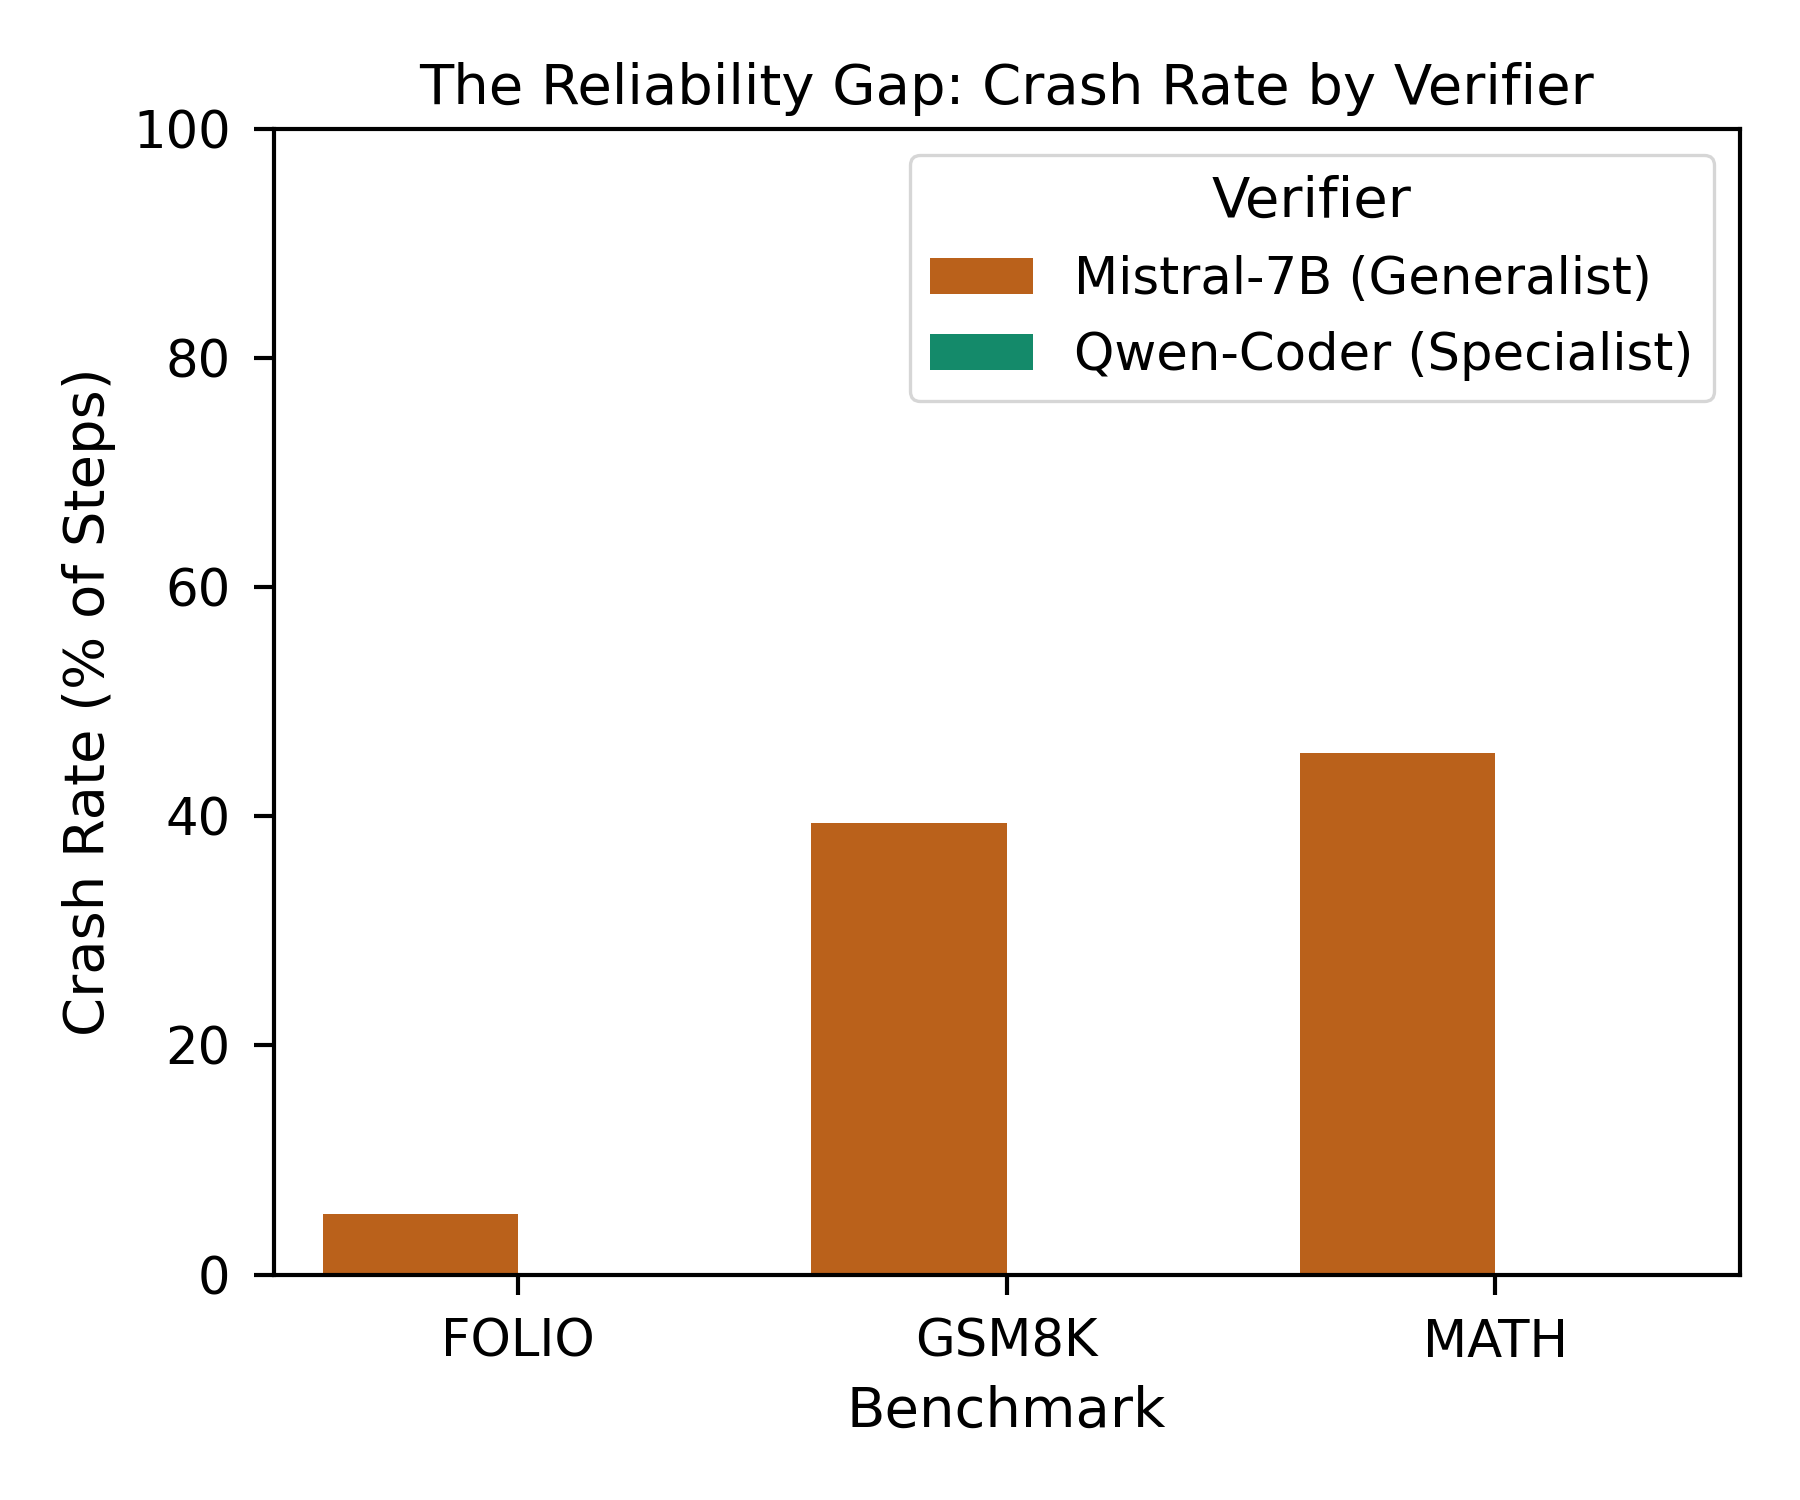
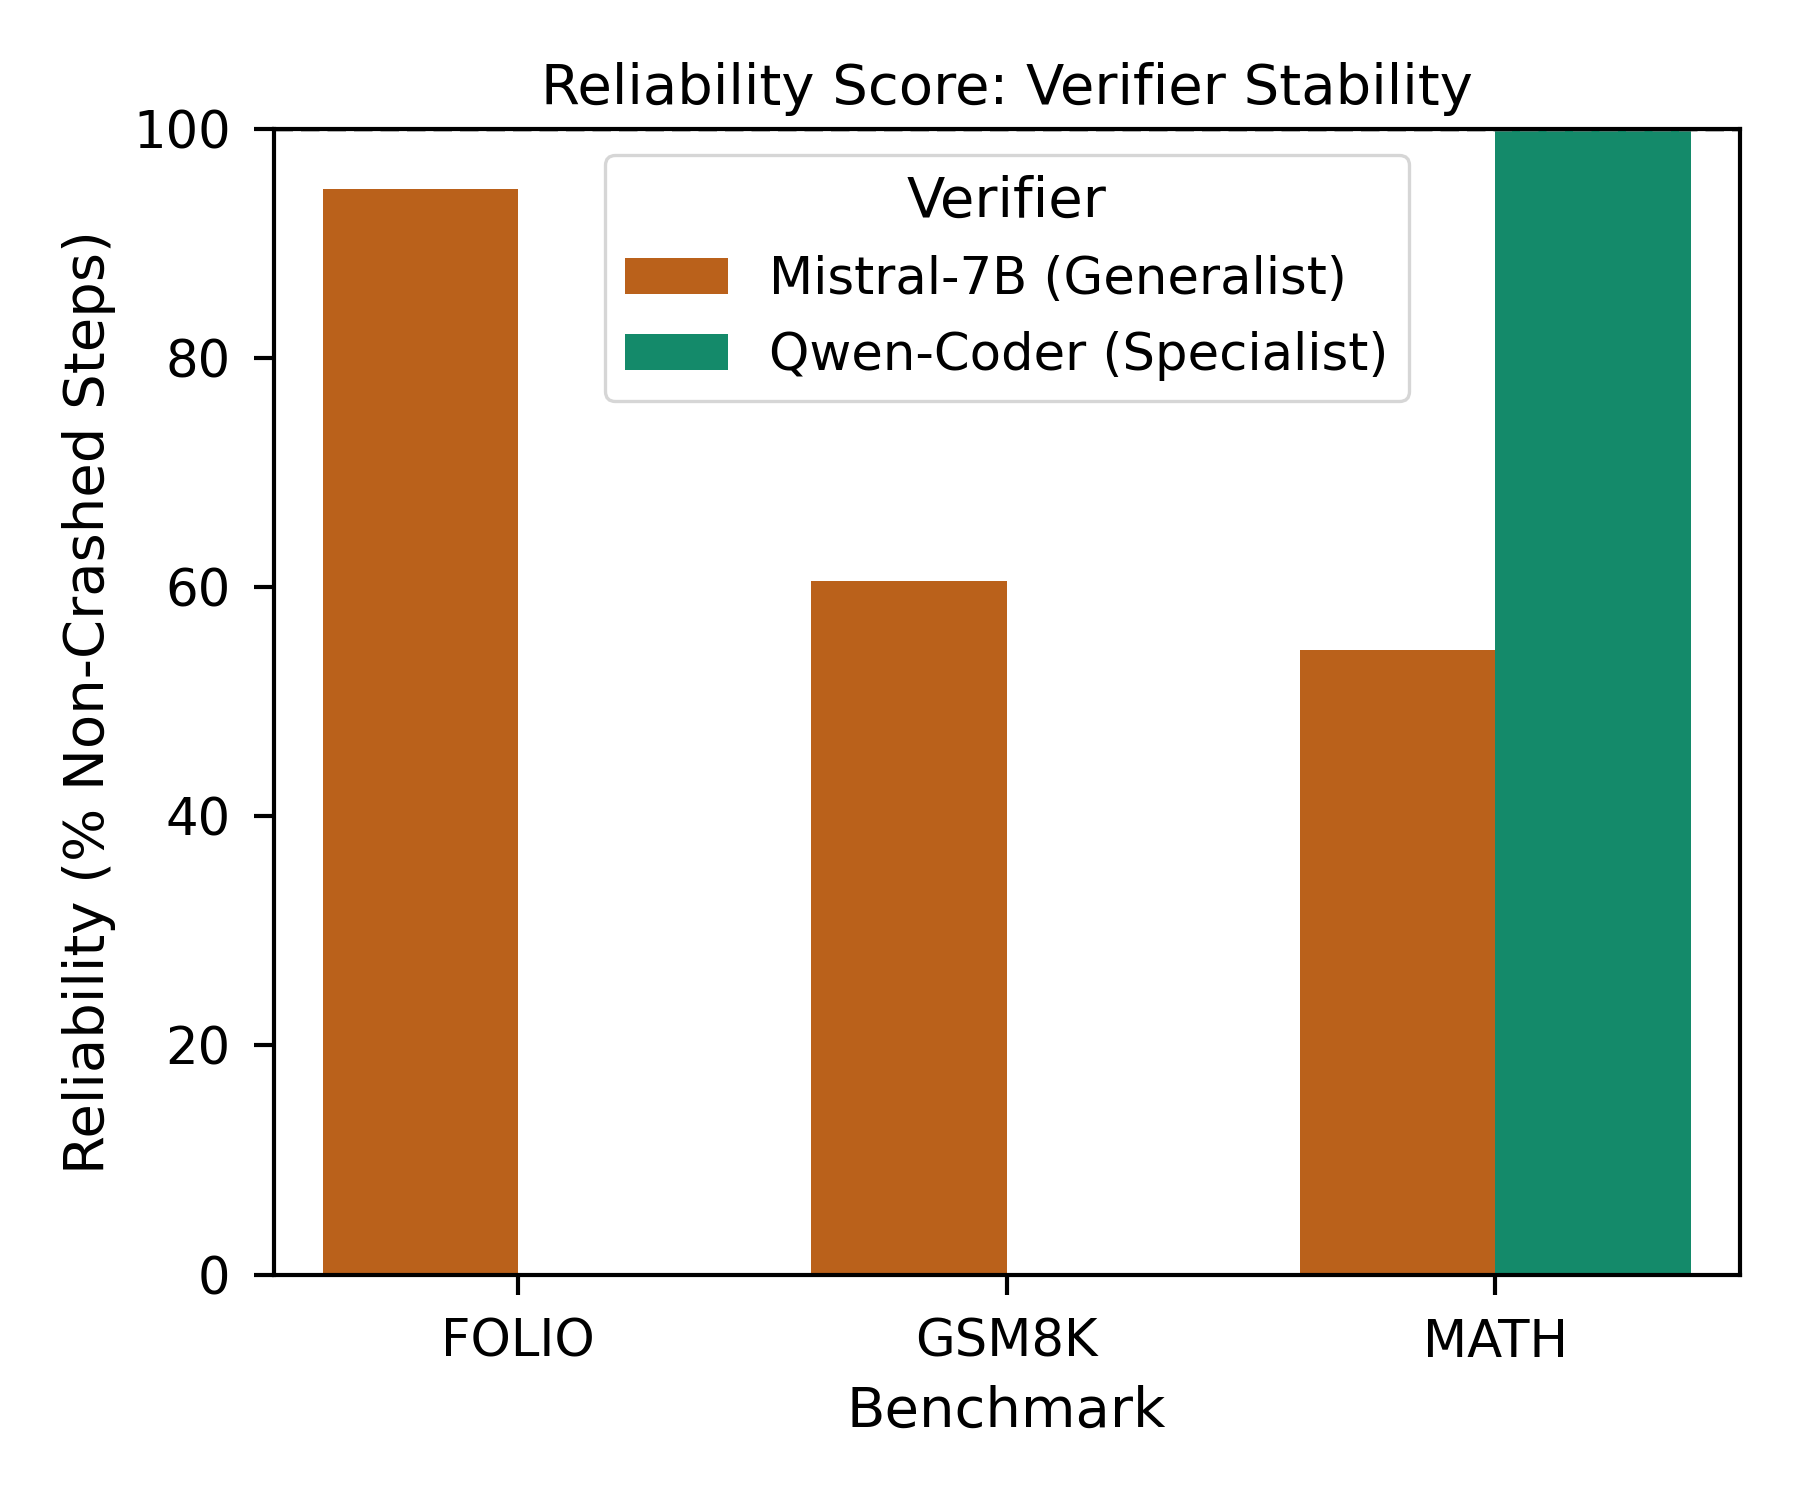
fix: Show Reliability Score instead of invisible Crash Rate

diff --git a/populate_paper_plots.py b/populate_paper_plots.py
@@ -69,17 +69,28 @@ def plot_reliability_gap(df):
         "Verifier": ["Qwen-Coder (Specialist)"]
     })
     
+    # Combined dataframe
     combined = pd.concat([gap, specialist_row], ignore_index=True)
     combined["Benchmark"] = combined["benchmark"].str.upper()
     
+    # Calculate Reliability Score (100 - Crash Rate)
+    combined["Reliability Score"] = 100 - combined["crash_rate"]
+    
     plt.figure(figsize=(6, 5))
-    sns.barplot(data=combined, x="Benchmark", y="crash_rate", hue="Verifier", palette=["#D55E00", "#009E73"])
-    plt.title("The Reliability Gap: Crash Rate by Verifier")
-    plt.ylabel("Crash Rate (% of Steps)")
+    ax = sns.barplot(
+        data=combined, 
+        x="Benchmark", 
+        y="Reliability Score", 
+        hue="Verifier", 
+        palette=["#D55E00", "#009E73"]
+    )
+    plt.title("Reliability Score: Verifier Stability")
+    plt.ylabel("Reliability (% Non-Crashed Steps)")
     plt.ylim(0, 100)
+    plt.axhline(y=100, color='gray', linestyle='--', alpha=0.5)
     plt.tight_layout()
     plt.savefig(FIG_DIR / "fig_reliability_gap.png", dpi=300)
-    print("Generated fig_reliability_gap.png")
+    print("Generated fig_reliability_gap.png (Reliability Score)")
     
 def plot_cost_vs_acc(df):
     df["correct_bool"] = df["correct"].astype(str) == "True"

diff --git a/paper/acl2026_srw.tex b/paper/acl2026_srw.tex
@@ -153,7 +153,7 @@ Baseline (CoT) & 92.5\% & 45.0\% & 67.5\% \\
 \begin{figure}[h]
     \centering
     \includegraphics[width=1.0\linewidth]{figures/fig_reliability_gap.png}
-    \caption{The Reliability Gap and its Solution. Generalist models (Mistral-7B) suffer high crash rates on MATH (80\%) and FOLIO (>90\%). In contrast, the Specialist Verifier (Qwen-Coder, rightmost bar) eliminates crashes entirely (0\%), bridging the gap.}
+    \caption{The Reliability Gap and its Solution. Generalist models (Mistral-7B, orange) suffer from low reliability on MATH and FOLIO due to frequent crashes. In contrast, the Specialist Verifier (Qwen-Coder, green) achieves \textbf{100\% Reliability} (0\% crash rate), successfully bridging the gap.}
     \label{fig:reliability_gap}
 \end{figure}
 
